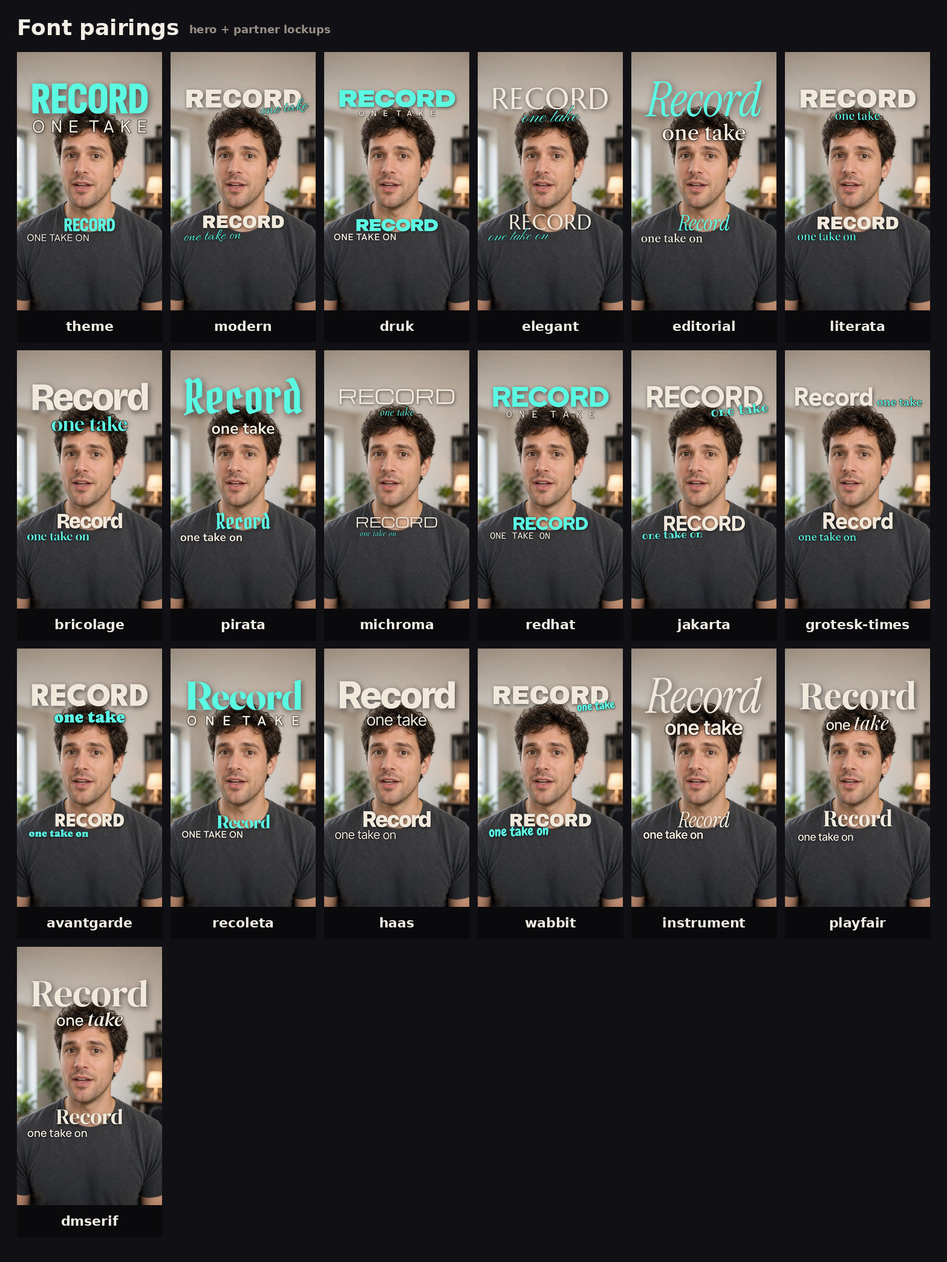
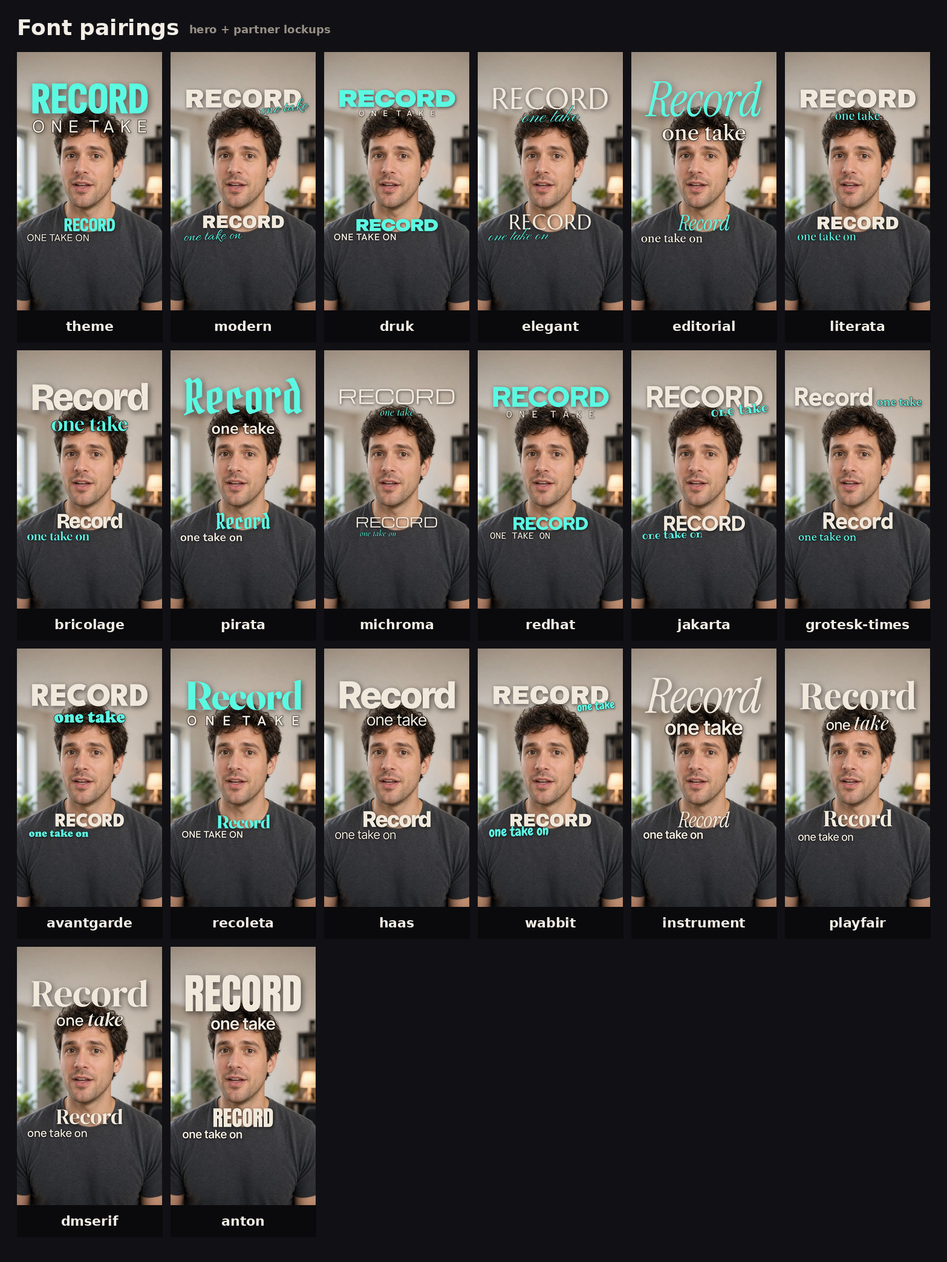
The anton pairing in the gallery and the lists; the showcase draws a still for a pairing added since the last full run

Changed region(s): [[0.1533, 0.7478, 0.3372, 0.966]]

diff --git a/showcase/index.html b/showcase/index.html
@@ -34,7 +34,7 @@
     <p>Every effect, graphic, film finish, look, caption style, font pairing, theme, title entrance and transition, labelled with the exact name or flag to use. Music beds and SFX are listed the same way (listen to the files in the kit; they are not embedded here). Vary finishes across scenes rather than one look on everything.</p>
     <p>Stills use an AI-generated fictional presenter made for this project (Apache-2.0 with the repo). Generated by <code>npm run showcase</code> from the catalogs, so this page stays in sync. Open this file from a full clone or zip of the repo (or serve the <code>showcase/</code> folder). If you download only this HTML file, the images will not load. The contact sheets in the README and <a href="GALLERY.md">GALLERY.md</a> render on GitHub.</p>
   </header>
-  <nav><a href="#finishes">Film finishes</a><a href="#beat-sync">Beat-sync</a><a href="#looks">Looks</a><a href="#caption-styles">Caption styles</a><a href="#fonts">Font pairings</a><a href="#themes">Themes</a><a href="#title-entrances">Title entrances</a><a href="#caption-entrances">Caption entrances</a><a href="#title-layer">Title layer</a><a href="#transitions">Transitions</a><a href="#graphics">Graphics</a><a href="#effects">Effects</a><a href="#sfx">SFX pack</a><a href="#beds">Music beds</a><a href="#exports">Export presets</a><a href="#editing">Editing principles</a><a href="#presets">Brand presets</a></nav>
+  <nav><a href="#finishes">Film finishes</a><a href="#beat-sync">Beat-sync</a><a href="#looks">Looks</a><a href="#caption-styles">Caption styles</a><a href="#fonts">Font pairings</a><a href="#themes">Themes</a><a href="#title-entrances">Title entrances</a><a href="#caption-entrances">Caption entrances</a><a href="#title-layer">Title layer</a><a href="#transitions">Transitions</a><a href="#graphics">Graphics</a><a href="#effects">Effects</a><a href="#sfx">SFX pack</a><a href="#beds">Music beds</a><a href="#exports">Export presets</a><a href="#editing">Editing principles</a><a href="#presets">Brand presets</a><a href="#packs">Style packs</a></nav>
   <main><section id="finishes"><h2>Film finishes <small>10</small></h2><p class="hint">On the picture, before titles. Set globally or per segment, and vary them across scenes rather than one look on everything.</p><div class="grid">
     <figure class="tile" data-id="finish:grain" id="finish-grain">
       <img src="media/finish/grain.jpg" alt="grain" width="270" height="480" loading="lazy">
@@ -214,7 +214,7 @@
         <span>one big word at a time, punchy, in the display face</span>
       </figcaption>
     </figure></div></section>
-<section id="fonts"><h2>Font pairings <small>19</small></h2><p class="hint">Two faces as a lockup. Your own licensed fonts go in kit/fonts/local/.</p><div class="grid">
+<section id="fonts"><h2>Font pairings <small>20</small></h2><p class="hint">Two faces as a lockup. Your own licensed fonts go in kit/fonts/local/.</p><div class="grid">
     <figure class="tile" data-id="font:theme" id="font-theme">
       <img src="media/font/theme.jpg" alt="theme" width="270" height="480" loading="lazy">
       <figcaption>
@@ -346,6 +346,13 @@
       <figcaption>
         <code>--fonts dmserif  or  &quot;fonts&quot;: &quot;dmserif&quot;</code>
         <span>DM Serif Display + Manrope, with DM Serif Display Italic as the accent: a high-contrast serif hero or numeral, one italic serif word, a rounded sans for the rest</span>
+      </figcaption>
+    </figure>
+    <figure class="tile" data-id="font:anton" id="font-anton">
+      <img src="media/font/anton.jpg" alt="anton" width="270" height="480" loading="lazy">
+      <figcaption>
+        <code>--fonts anton  or  &quot;fonts&quot;: &quot;anton&quot;</code>
+        <span>Anton + Inter Tight: tall condensed caps over a clean grotesk line. The condensed pairing a reference with narrow heavy type is matched to</span>
       </figcaption>
     </figure></div></section>
 <section id="themes"><h2>Themes <small>3</small></h2><p class="hint">Colours, default fonts, optional logo.</p><div class="grid">
@@ -2440,6 +2447,49 @@
       <figcaption>
         <code>--preset retro-scan-lines</code>
         <span>CRT scan lines, chroma, a slightly worn grade</span>
+      </figcaption>
+    </figure></div></section>
+<section id="packs"><h2>Style packs <small>6</small></h2><p class="hint">A whole look in one folder (packs/&lt;name&gt;/pack.json): a base preset, style keys and locks that pin what the auto-picker may choose. npm run reel -- &lt;clip&gt; --pack &lt;name&gt;; add --lock &quot;transitions=whip,zoom&quot; to pin more. Gallery: docs/packs.md. Make your own: npm run pack:new -- &lt;name&gt; --from &lt;preset|pack|job&gt;.</p><div class="grid">
+    <figure class="tile" data-id="pack:aigent" id="pack-aigent">
+      <div class="ph"></div>
+      <figcaption>
+        <code>--pack aigent</code>
+        <span>AIgent house style: kinetic type, cyan accent, glitch seams with a few whips and zooms (the default). Locks: transitions glitch, whip, zoom; finishes grain, vignette</span>
+      </figcaption>
+    </figure>
+    <figure class="tile" data-id="pack:cinematic" id="pack-cinematic">
+      <div class="ph"></div>
+      <figcaption>
+        <code>--pack cinematic</code>
+        <span>Cinematic: teal and orange grade, film dissolves and dips, slow reveals. Locks: transitions film, dissolve, dip-black, fade-slow; titles blur-rise, drop, typewriter, stagger-rise; max 4 titles; finishes teal, grain, vignette, crushed</span>
+      </figcaption>
+    </figure>
+    <figure class="tile" data-id="pack:hormozi-bold" id="pack-hormozi-bold">
+      <div class="ph"></div>
+      <figcaption>
+        <code>--pack hormozi-bold</code>
+        <span>Bold: heavy caps, cyan on the spoken word, punchy glitch, whip and flash cuts. Locks: transitions glitch, whip, zoom, flash; titles slam, pop-zoom, elastic, drop; finishes grain, crushed</span>
+      </figcaption>
+    </figure>
+    <figure class="tile" data-id="pack:magazine" id="pack-magazine">
+      <div class="ph"></div>
+      <figcaption>
+        <code>--pack magazine</code>
+        <span>Magazine: serif and sans mixed, colour and chapter cards, soft crossfades, typewriter first. Locks: transitions crossfade, dissolve, fade-fast; titles typewriter, blur-rise, pop-zoom, stagger-rise, slide-left, drop; max 6 titles</span>
+      </figcaption>
+    </figure>
+    <figure class="tile" data-id="pack:minimal-clean" id="pack-minimal-clean">
+      <div class="ph"></div>
+      <figcaption>
+        <code>--pack minimal-clean</code>
+        <span>Minimal: quiet type, hard cuts only, no grade, no cards. Locks: transitions cut; finishes none; no cards</span>
+      </figcaption>
+    </figure>
+    <figure class="tile" data-id="pack:neutral" id="pack-neutral">
+      <div class="ph"></div>
+      <figcaption>
+        <code>--pack neutral</code>
+        <span>Neutral: unbranded, system fonts, hard cuts with the odd crossfade. Locks: transitions cut, crossfade; finishes none</span>
       </figcaption>
     </figure></div></section></main>
 </body>

diff --git a/effects/CATALOG.md b/effects/CATALOG.md
@@ -4,7 +4,7 @@
 
 ## Everything available
 
-219 things to offer, in one list. Tell the user what fits their moment, not the whole list.
+220 things to offer, in one list. Tell the user what fits their moment, not the whole list.
 
 - **51 video effects** (this catalog, `npm run fx`): `noise`, `lineup`, `locked-on`, `orbit`, `lean-in`, `backdrop-word`, `spotlight`, `the-bill`, `moody`, `swipe`, `todo`, `comment-box`, `tap`, `pause-point`, `uninstall`, `reel-frame`, `shortcut-rain`, `reject-stamp`, `countdown-flip`, `rabbit-hole`, `cover-star`, `scribble`, `glass-widgets`, `red-collage`, `split-headline`, `pastel-word`, `check-pills`, `timeline`, `headline-box`, `profile-wall`, `tier-list`, `broll-split`, `phone-fan`, `dot-reveal`, `headline-wall`, `checklist`, `liquid-glass-graph`, `carousel-spin`, `match-cut`, `apple-toggles`, `led-sign`, `slow-push`, `over-the-shoulder-zoom`, `messages`, `place-in-grid`, `tape-label`, `select-resize`, `wave-trim`, `huge-strike`, `crayon-write`, `fan-build`.
 - **30 graphics** (`captions.js` flips, or a `reel-graphics` block in a Reel.md; `kit/graphics.json`): `ordinal-sticker` (mode 9, entrance `burst-pop`) list number sticker: an italic serif word (FIRST, SECOND, NEXT) set on a flat seal in the theme accent; the seal can sit behind your head; `app-label` (mode 10, entrance `tile-pop`) app or logo label: a top-lit icon tile springs in and a name plate wipes out under it; your icon image, or a monogram of the name; `screen-card` (mode 11, entrance `card-rise`) screen card: a dark window card (title bar, address pill, accent rim with a glow), inset in the lower middle, showing your screenshot or screen recording; optional pointer clicks and pan and zoom keyframes on beats you say; `lower-third` (mode 12, entrance `bar-wipe`) lower third name tag: an accent rule springs up, a name plate wipes out from it and a small line follows on an accent tab; `stat-callout` (mode 13, entrance `count-up`) big number callout: the number blurs in and counts up to its value in equal digit cells, accent gradient and glow, a label plate rises under it; `checklist` (mode 14, entrance `tick-in`) checklist card: rows slide in, and each check springs in and draws its tick as you say its item; a done count in the header; `quote-card` (mode 15, entrance `quote-unfold`) quote card: a quote mark springs in, the line fades up word by word in an italic serif, with a small attribution under it; `highlight` (mode 16, entrance `draw-on`) highlight: a tapered marker circle, arrow, underline or box draws itself on with a glow, with an optional short label on an accent plate; `step-counter` (mode 17, entrance `step-tick`) step counter: a plate with the step number rolling over in an accent disc, STEP 2 OF 5 beside it and a segmented bar that fills to the current step; `versus` (mode 18, entrance `split-slam`) versus card: two halves slide in from the sides and a VS badge slams between them; `icon-badge` (mode 19, entrance `badge-spin`) round icon badge: springs in while its conic ring draws round; a built-in glyph (Tabler icon) or your icon, with an optional label plate; `sticker-pop` (mode 20, entrance `scatter-pop`) reaction stickers: a little cluster of die-cut vinyl stickers (hearts, stars, fire, sparks) springs in around a point and floats up; `price-tag` (mode 21, entrance `chip-rise`) price tag: a price card rises and springs into place, the price big with a raised currency sign and an old price struck through above; `cta-card` (mode 22, entrance `cta-rise`) call-to-action end card: a card rises with an avatar ring, your line and handle, and a follow button pulses with ripples; `code-card` (mode 23, entrance `type-on`) code snippet card: an editor window with a file tab, line numbers and a current-line band, the code typing itself on with syntax colour and a caret; the card widens or the type steps down so no line is clipped; `data-chart` (mode 24, entrance `bars-grow`) data chart card: gridlines draw, then each bar (or each point of a line) grows on its beat with a spring while its value counts up; the top value glows in the accent; `chapter-card` (mode 25, entrance `chapter-wipe`) chapter card: a soft scrim and accent rule, CHAPTER 02 and the title rising out of a mask line by line, a ghost numeral behind and progress ticks; `logo-bug` (mode 26, entrance `bug-in`) logo bug: your mark (an icon file, else a monogram tile in the accent) springs into a corner with its name on a dark plate; a slow sheen passes now and then; `channel-bug` (mode 27, entrance `bug-in`) channel bug: a red LIVE pill with a breathing dot, a running clock in tabular digits and the channel name, on dark plates in a corner; `terminal-session` (mode 28, entrance `term-rise`) terminal session: a terminal window rises; each $ command types on its beat with a spinner, then its output lands line by line (ticks green, errors red); a block cursor blinks; `news-strap` (mode 29, entrance `strap-wipe`) news strap: a broadcast lower third; a light plate wipes out from an accent bar with the headline, a tag tab drops onto its top edge and the sub line slides in on a dark strip; `ticker` (mode 30, entrance `ticker-slide`) ticker: a full-width band rises from the bottom edge with a slanted accent label block; the items you say scroll right to left between accent diamonds; `split-flap` (mode 31, entrance `flap-in`) split-flap board: hinged departure-board tiles flip through letters and land on your words left to right in Anton; a second row in the accent; `feature-cards` (mode 32, entrance `cards-deal`) feature cards: two to four cards deal in side by side as you say each feature, with an icon tile in the accent, a number, the feature and a short line; the newest card glows; `release-pill` (mode 33, entrance `pill-pop`) release pill: a glass pill springs in with an accent NEW chip (its dot pulsing a ring), your line and an arrow; a sheen sweeps across once; `cta-button` (mode 34, entrance `button-press`) CTA button: a lit accent button rises, a pointer glides in and clicks it (the button squashes and flashes, a ripple rings out); a sub line under it; `hud-callout` (mode 35, entrance `lock-on`) HUD callout: corner brackets spin in and lock onto a region (a flash, centre ticks, a scan line), a leader line draws out with an elbow to a label that decodes into place; `flash-card` (mode 36, entrance `flash-cut`) flash cards: full-bleed type cards, one word each in Anton, hard cut on each beat with a punch-in, alternating accent and ink grounds; covers the frame; `keyword-caption` (mode 37, entrance `block-in`) keyword caption: a caption line rises word by word, then a solid accent block wipes in behind the keyword and its letters flip to ink on it; an optional tag above; `number-pop` (mode 38, entrance `num-pop`) number pop: a listicle intro, the numbers 1 to N pop in one by one on solid tiles around your head (alternating sides, never over the face), hold, then pop out together; pair it with a pop sound.
@@ -14,7 +14,7 @@
 - **56 named transitions** (`cut.json` per segment `transition`; default `glitch` seam; any of ffmpeg's 58 xfade modes also works): `glitch` (seam), `cut` (seam), `crossfade`, `dissolve`, `fade-fast`, `fade-slow`, `film`, `dip`, `dip-black`, `flash`, `dip-white`, `whip`, `whip-left`, `whip-right`, `push-left`, `push-right`, `swipe-up`, `swipe-down`, `cover-left`, `cover-right`, `cover-up`, `reveal-left`, `reveal-right`, `wipe`, `wipe-left`, `wipe-right`, `wipe-up`, `wipe-down`, `luma-wipe`, `soft-wipe`, `iris`, `iris-open`, `iris-close`, `circle-crop`, `doorway`, `barn-door`, `zoom`, `zoom-through`, `pixelate`, `blur`, `blur-cross`, `radial`, `clock`, `squeeze`, `slice`, `blinds`, `wind`, `warp`, `diagonal`, `distance`, `slats`, `checkerboard`, `light-leak`, `zoom-blur`, `news-ribbon`, `breaking-news`.
 - **5 locked sounds**, the cut-seam set (`cut.json` `sfx`; fewer and deeper): `whoosh` entrances and the big cuts (the original cinematic woosh pick, Freesound 648729, CC0); `swipe` cards or titles sliding in or out (quick woosh, Freesound 683101, CC0); `boom` the one big moment: payoff or end card (motion-pack snd.hit.deep_impact, CC0); `click` on-screen UI clicks (motion-pack snd.ui.click, CC0); `typing` text typing on screen (motion-pack snd.ui.typing_burst, CC0).
 - **37 pack sounds** (`kit/sfx/sfx.json`, auto-picked on `npm run fx` unless `--sfx off`): `hit` `01-cinematic-hit-a`, `02-cinematic-hit-b`; `riser` `03-riser-tension`, `25-riser-pitch-sweep`, `26-riser-supersaw-swell`, `27-riser-pulse-accel`, `28-riser-shepard`; `release` `29-release-downlifter`, `30-release-pad-bloom`, `31-release-airy-exhale`, `32-release-resolve-chord`; `whoosh` `05-whoosh-fast`, `06-whoosh-cinematic-deep`, `07-whoosh-whip`; `swipe` `08-swipe-up`, `09-swipe-down`; `pop` `10-pop-bubble`, `11-pop-sticker`; `ui` `12-ui-click-glass`, `13-ui-tick`, `14-ui-notification`, `33-ui-mouse-click`, `34-ui-key-press`, `35-ui-keyboard-typing`; `glitch` `15-glitch-digital-a`, `16-glitch-digital-b`; `camera` `17-camera-shutter`, `18-camera-flash`, `37-camera-clapper`, `38-camera-slate`; `paper` `19-paper-scribble`, `36-paper-flip`; `counter` `20-cha-ching`, `21-counter-tickup`; `sub` `22-sub-drop`; `shimmer` `23-shimmer-sparkle-a`, `24-shimmer-sparkle-b`. Per-effect override: `"sfx": "<id>"` or `"sfx": false`.
-- **18 font pairings** (`--fonts`, plus `theme` and your own licensed fonts in kit/fonts/local/): `modern` (Archivo Black + Hanken Grotesk + Allura), `druk` (Unbounded + Hanken Grotesk), `elegant` (Marcellus + Crimson Pro + Pinyon Script), `editorial` (Instrument Serif + Libre Caslon Text), `literata` (Archivo Black + Literata), `bricolage` (Bricolage Grotesque + Gloock), `pirata` (Pirata One + Nunito Sans), `michroma` (Michroma + Cardo), `redhat` (Red Hat Display + Red Hat Mono), `jakarta` (Plus Jakarta Sans + Plus Jakarta Sans + Ribeye), `grotesk-times` (Hanken Grotesk + Crimson Pro), `avantgarde` (League Spartan + Caprasimo), `recoleta` (Fraunces + Hanken Grotesk), `haas` (Inter Tight + Inter Tight), `wabbit` (Archivo Black + Hanken Grotesk + Chewy), `instrument` (Instrument Serif + Inter Tight), `playfair` (Playfair Display + Inter Tight + Playfair Display), `dmserif` (DM Serif Display + Manrope + DM Serif Display).
+- **19 font pairings** (`--fonts`, plus `theme` and your own licensed fonts in kit/fonts/local/): `modern` (Archivo Black + Hanken Grotesk + Allura), `druk` (Unbounded + Hanken Grotesk), `elegant` (Marcellus + Crimson Pro + Pinyon Script), `editorial` (Instrument Serif + Libre Caslon Text), `literata` (Archivo Black + Literata), `bricolage` (Bricolage Grotesque + Gloock), `pirata` (Pirata One + Nunito Sans), `michroma` (Michroma + Cardo), `redhat` (Red Hat Display + Red Hat Mono), `jakarta` (Plus Jakarta Sans + Plus Jakarta Sans + Ribeye), `grotesk-times` (Hanken Grotesk + Crimson Pro), `avantgarde` (League Spartan + Caprasimo), `recoleta` (Fraunces + Hanken Grotesk), `haas` (Inter Tight + Inter Tight), `wabbit` (Archivo Black + Hanken Grotesk + Chewy), `instrument` (Instrument Serif + Inter Tight), `playfair` (Playfair Display + Inter Tight + Playfair Display), `dmserif` (DM Serif Display + Manrope + DM Serif Display), `anton` (Anton + Inter Tight).
 - **Camera**: zoom punch on every cut (`punch`), big punch (`bigPunch`, +12% over 0.3 s) on the cut after the hook and into the payoff.
 
 **How to read it**

diff --git a/skills/talking-head-ad/SKILL.md b/skills/talking-head-ad/SKILL.md
@@ -148,7 +148,7 @@ Use this when mixing sources or when you need finer control. Work in a job folde
 - `end: 99` holds a flip to the end of the video.
 - **Caption styles** (`"captionStyle"`): `kinetic` (default: each phrase is a two-font lockup; the `hero` word slams in big in the display face, the other words come in on their own word times in the partner face, beside, under or across it), `pill` (3 to 5 words in a lower-third pill), `hormozi` (bold caps, cyan active word), `karaoke` (colour wipe word by word), `classic` (the original). Every spoken word should be on screen in some style; don't ship plain captions unless asked.
 - **Titles.** One per beat, at most 8: `{"start": 0.2, "end": 3.1, "text": "Stop editing by hand", "mode": 7, "hero": "editing"}` (a lockup: the hero word big, the rest in the partner face). Each gets a different entrance (`stagger-rise`, `slam`, `blur-rise`, `slide-left`, `elastic`, `flip`, `pop-zoom`, `drop`), picked in order unless you set `"entrance"`. Only the hook and the payoff flicker. Titles sit at about Y=560, behind the presenter: `build/mask.mkv` (made by `kit/mask.py` from the effects venv) cuts the person out on top of them. For a final reel, use the BiRefNet backend (`npm run reel -- --mask birefnet`, or `"maskModel": "birefnet"` in `cut.json`) after `npm run effects:setup -- --birefnet`. It is slower on CPU (several seconds per title frame) but tighter on hair and hands than MediaPipe, which is the fast fallback and what smoke uses. Optional `"person": "person.mkv"` writes an edge-decontaminated BGRA layer that assemble will prefer. Without the effects venv, titles go in front. If the mask leaks onto the background, add `"maskClear": [[x0, y0, x1, y1]]` in `cut.json`. Judge quality on composited stills, by eye.
-- **Fonts.** `"fonts": "druk"` (or `--fonts`) picks a pairing from `kit/fonts/` (16 of them; the table is in `kit/fonts/README.md`). For hooks and titles the clean ones are `literata`, `bricolage`, `michroma`, `redhat` and `pirata`; for Instagram Edits style reels use `jakarta` or `wabbit`. List several to cycle them, one pairing per title beat (captions follow their title's pair, so two combos never mix): `"fonts": "literata,bricolage,michroma"`. The two faces always appear together as a designed lockup (modern: heavy caps + a script tail tucked under it; druk: wide caps + a small tracked sans line; elegant: serif caps + script across it; editorial: serif italic + roman). Pick the hero word per phrase with `"hero": "editing"` (or word indices) on the title or caption, or `"hero": {"<start>": "words"}` in `cut.json`; `"lockup": false` sets one phrase in one font. See `kit/fonts/README.md`. Teammates' own licensed fonts go in `kit/fonts/local/`, never in git.
+- **Fonts.** `"fonts": "druk"` (or `--fonts`) picks a pairing from `kit/fonts/` (20 with `theme`; the table is in `kit/fonts/README.md`). For hooks and titles the clean ones are `literata`, `bricolage`, `michroma`, `redhat` and `pirata`; for Instagram Edits style reels use `jakarta` or `wabbit`. List several to cycle them, one pairing per title beat (captions follow their title's pair, so two combos never mix): `"fonts": "literata,bricolage,michroma"`. The two faces always appear together as a designed lockup (modern: heavy caps + a script tail tucked under it; druk: wide caps + a small tracked sans line; elegant: serif caps + script across it; editorial: serif italic + roman). Pick the hero word per phrase with `"hero": "editing"` (or word indices) on the title or caption, or `"hero": {"<start>": "words"}` in `cut.json`; `"lockup": false` sets one phrase in one font. See `kit/fonts/README.md`. Teammates' own licensed fonts go in `kit/fonts/local/`, never in git.
 - Check a few frames first: `node ../../kit/render.mjs 0 "2.7,13.6,25.9"` writes `stills/`.
 - **Theme.** `build/theme.js` sets colours, fonts and logo. `render.mjs` copies `kit/themes/aigent.js` there if it's missing (`THEME=neutral` picks the unbranded offline preset). Edit it per job, or add `"theme": {...}` overrides in `captions.js`. A logo plate (mode 5) needs `"logo": "file.svg"` in `captions.js` (file in `build/`) or `theme.logo`; without one, mode 5 draws nothing.
 - AIgent theme rules (AIgent jobs only):

diff --git a/docs/guide.md b/docs/guide.md
@@ -75,7 +75,7 @@ Titles use 8 entrances (stagger rise, slam, blur rise, slide left, elastic, flip
 
 **`--look oneword`** is the high bar: one word on screen at a time, each word's size and face picked by its role (small filler, body words, a big italic-serif hero with the rest of the phrase building under it), flat-colour type cards cutting in as text-only b-roll, a key word as a title on the first and last beat (in front by default, or behind the head), and, with `--broll <folder>`, cutaways to your own clips while the voice runs on. Rules and numbers: [kit/looks/oneword.md](../kit/looks/oneword.md).
 
-Font pairings (`--fonts`, or `"fonts"` in `captions.js`): `theme` (default), `modern`, `druk`, `elegant`, `editorial`, plus `literata`, `bricolage`, `pirata`, `michroma`, `redhat`, `jakarta`, `grotesk-times`, `avantgarde`, `recoleta`, `haas`, `wabbit`, `instrument`, `playfair`, `dmserif` (see [kit/fonts/README.md](../kit/fonts/README.md)). List several to cycle them, one pairing per title: `--fonts literata,bricolage,michroma`. A pairing is two faces set together: every title and kinetic line is a lockup with the hero word big in the display face and the rest of the phrase in the partner face (script or sans/serif) beside, under or across it. `"hero"` on a phrase picks the hero word. `playfair` and `dmserif` add a third face: one word of the partner line in the italic serif (`"accent"` on a title picks it). All shipped fonts are SIL OFL Google Fonts; your own licensed fonts go in `kit/fonts/local/` (gitignored). See [kit/fonts/README.md](../kit/fonts/README.md).
+Font pairings (`--fonts`, or `"fonts"` in `captions.js`): `theme` (default), `modern`, `druk`, `elegant`, `editorial`, plus `literata`, `bricolage`, `pirata`, `michroma`, `redhat`, `jakarta`, `grotesk-times`, `avantgarde`, `recoleta`, `haas`, `wabbit`, `instrument`, `playfair`, `dmserif`, `anton` (see [kit/fonts/README.md](../kit/fonts/README.md)). List several to cycle them, one pairing per title: `--fonts literata,bricolage,michroma`. A pairing is two faces set together: every title and kinetic line is a lockup with the hero word big in the display face and the rest of the phrase in the partner face (script or sans/serif) beside, under or across it. `"hero"` on a phrase picks the hero word. `playfair` and `dmserif` add a third face: one word of the partner line in the italic serif (`"accent"` on a title picks it). All shipped fonts are SIL OFL Google Fonts; your own licensed fonts go in `kit/fonts/local/` (gitignored). See [kit/fonts/README.md](../kit/fonts/README.md).
 
 Words and titles stay out of the way of effects: where an effect's catalog entry says `captions: off` they hide, and where it says `check` the caption track moves to the top of the frame.
 

diff --git a/showcase/GALLERY.md b/showcase/GALLERY.md
@@ -65,7 +65,7 @@ Stills use an AI-generated fictional presenter (Apache-2.0 with the repo). Rebui
 | ![theme](media/font/theme.jpg)<br>`theme` | ![modern](media/font/modern.jpg)<br>`modern` | ![druk](media/font/druk.jpg)<br>`druk` | ![elegant](media/font/elegant.jpg)<br>`elegant` | ![editorial](media/font/editorial.jpg)<br>`editorial` |
 | ![literata](media/font/literata.jpg)<br>`literata` | ![bricolage](media/font/bricolage.jpg)<br>`bricolage` | ![pirata](media/font/pirata.jpg)<br>`pirata` | ![michroma](media/font/michroma.jpg)<br>`michroma` | ![redhat](media/font/redhat.jpg)<br>`redhat` |
 | ![jakarta](media/font/jakarta.jpg)<br>`jakarta` | ![grotesk-times](media/font/grotesk-times.jpg)<br>`grotesk-times` | ![avantgarde](media/font/avantgarde.jpg)<br>`avantgarde` | ![recoleta](media/font/recoleta.jpg)<br>`recoleta` | ![haas](media/font/haas.jpg)<br>`haas` |
-| ![wabbit](media/font/wabbit.jpg)<br>`wabbit` | ![instrument](media/font/instrument.jpg)<br>`instrument` | ![playfair](media/font/playfair.jpg)<br>`playfair` | ![dmserif](media/font/dmserif.jpg)<br>`dmserif` |  |
+| ![wabbit](media/font/wabbit.jpg)<br>`wabbit` | ![instrument](media/font/instrument.jpg)<br>`instrument` | ![playfair](media/font/playfair.jpg)<br>`playfair` | ![dmserif](media/font/dmserif.jpg)<br>`dmserif` | ![anton](media/font/anton.jpg)<br>`anton` |
 
 ## Presets
 

diff --git a/README.md b/README.md
@@ -219,7 +219,7 @@ Optional: a HeyGen account with Cinematic Avatar if you generate takes, and `FRE
 | Caption styles, plus 9 letter-by-letter entrances for hero words | 7 | [Effects menu](docs/effects.md#caption-entrances) (animated previews) |
 | Title entrances, in front of or behind your head | 9 | [Effects menu](docs/effects.md#title-entrances) (animated previews) |
 | Film finishes | 10 | [Film finishes](#film-finishes) |
-| Font pairings (SIL OFL) | 19 | [kit/fonts](kit/fonts/README.md) |
+| Font pairings (SIL OFL) | 20 | [kit/fonts](kit/fonts/README.md) |
 | Brand presets | 11 | [Presets](#presets) |
 | Editing principles built in: mixed serif and sans, titles placed around the head, colour and chapter cards, music by energy, mapped and capped sounds, punch-ins, no dead air | 7, all in `--preset magazine` | [Guide](docs/guide.md#editing-principles-built-in), [effects menu](docs/effects.md#editing-principles) |
 | Sound effects and CC0 music beds, beat-synced | 37 and 11 | [Music beds](kit/music/README.md) |
